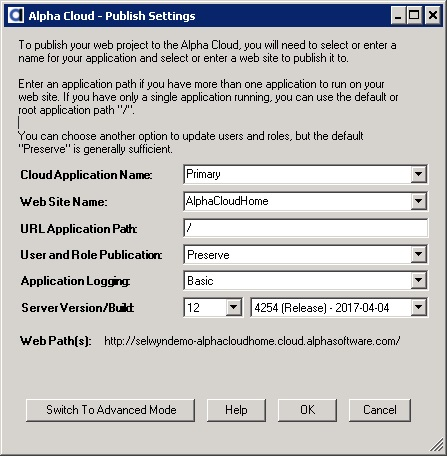
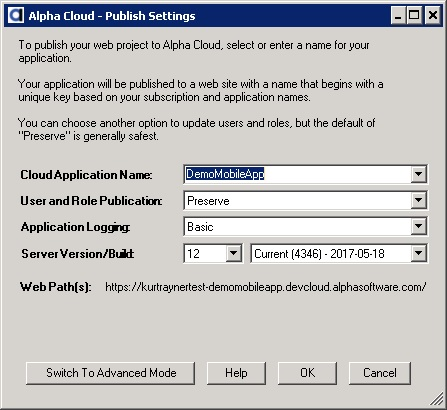
Update documentation re basic publish preferences dialog (remove web site and URL path). Add documentation for Alpha Cloud Status Update menu screen shots and dialog screen shots.

diff --git a/helpfiles/Guides/Beta Software/Alpha Cloud/Alpha Anywhere Developers Guide/Publishing Steps.html b/helpfiles/Guides/Beta Software/Alpha Cloud/Alpha Anywhere Developers Guide/Publishing Steps.html
@@ -48,25 +48,28 @@ The process of Alpha Cloud deployment for development and test is a little diffe
 <br/>
 <br/>
 
-<p>When using the basic publish dialog, you are asked to provide a unique names for your application, your web site, and an application path.</p>
+<p>When using the basic publish dialog, you are asked to provide a unique name for your application.</p>
 <ul>
 <li>	<p>The application name is how the Alpha Cloud will recognize your web project from others you publish.</p>
 	</li>
-<li>	<p>The web site name will uniquely identify your web site to Alpha Cloud so you can deploy one or more applications to it.</p>
+<li>	<p>The web site name will be the same as your application and will uniquely identify your web site to Alpha Cloud so you can deploy one or more applications to it.</p>
 	</li>
-<li>	<p>The URL application path will identify your web application within the web site you selected.
-		You can have many applications running on the same web site.</p>
-	<p>An example of a web path might be "/" (meaning it is the root application and does not have a name) or "/hr" (meaning we want to include the "/hr" part after the base URL to access this application.</p>
-	<p>The full URL in our example would be something like "http://www.mycompany.com" or "http://www.mycompany.com/hr"</p>
+<li>	<p>The URL application path will be set to the root application ("/").</p>
+	<p>Note that, you can have more than one application running on the same web site in addition to the root ("/") application.  
+	This is an discussed in the advanced section.
+</p>
 	</li>
 </ul>
 <br/>
 <p>The basic publish dialog always publishes a new version of your application and deploys it immediately.
-You would not generally publish directly from a development environment to production, but you could.
-As you get more familiar with the Alpha Cloud tools, you will see that you have tremendous flexibility and control over your production applications, including the ability to roll back deployments to a prior version.
+You will not generally publish directly from a development environment to production, but you can.
+As you get more familiar with the Alpha Cloud tools, you will see that you have tremendous flexibility and control over your production applications, 
+including the ability to roll back deployments to a prior version.
 </p>
 <p>With the information you have provided, Alpha Cloud can move your web project to the cloud, prepare it for deployment and deploy it on a web site.
-This web site may be available almost immediately (it certainly will if you are publishing an updated version to the same site).  
+How quickly your web site will be available depends on whether a new server group must be started.
+If not, you should see the web site within a minute or so.  
+The publish dialog will let you see the progress of your deployment.
 If you are using a tenancy option that limits your web sites to a dedicated virtual machine (an advanced option), you may have to wait for a machine to become available.
 There is usually no reason to run development or test loads in dedicated environments, and it is faster and more cost effective to use a "public" tenancy option.
 </p>

diff --git a/helpfiles/Guides/Beta Software/Alpha Cloud/Alpha Anywhere Developers Guide/Publishing Your Application.html b/helpfiles/Guides/Beta Software/Alpha Cloud/Alpha Anywhere Developers Guide/Publishing Your Application.html
@@ -70,19 +70,6 @@ The first publish requires some minimal setup using the following steps:</p>
 	<li><p>Select the application you want to publish your web project to, or enter a new name to create a new application.
 		The name must be unique within the subscription and account you are working in.</p>
 		</li>
-	<li><p>Select the web site you want to publish your application to, or enter a new name to create a new web site.
-		The name must be unique within the subscription you are working in.
-		Note that a web site is shared across all accounts within a subscription.</p>
-		</li>
-	<li><p>Assign a URL application path to access the application on your web site.</p>
-		<p>In most cases you will use "/" (meaning that this application is the "root" application for the web site.</p>
-		<p>If you use another name, your users will need to include that name in the URL they reference your application from.</p>
-		<p>For example, if your URL application path is "Accounting" and your web site root application is accessed as is accessed as "https//:myhost.mydomain.com", 
-			users will reference your application as "https://myhost.mydomain.com/Accounting".</p>
-		<p><strong>Note:</strong> The full path of your target web site is displayed on the dialog as you make changes.  
-			You can copy the path from the dialog to the clipboard to paste it into your browser for testing.
-			</p>
-		</li>
 	<li><p>Set the User and Role Publication Option.</p>
 		<p>The security information for your web project includes initial users and groups you want to publish as well as page permissions.
 			<ul>

diff --git a/helpfiles/Guides/Beta Software/Alpha Cloud/Alpha Anywhere Developers Guide/Alpha Cloud Status.html b/helpfiles/Guides/Beta Software/Alpha Cloud/Alpha Anywhere Developers Guide/Alpha Cloud Status.html
@@ -1,0 +1,39 @@
+<html>
+
+<head>
+<meta http-equiv="Content-Language" content="en-us">
+<meta http-equiv="Content-Type" content="text/html; charset=windows-1252">
+<meta name="description" content="Viewing the status of Alpha Cloud." />
+<meta name="shortlink" content="Alpha Cloud Alpha Anywhere Developers Guide Alpha Cloud Status" />
+<title>Alpha Cloud Alpha Anywhere Developers Guide Alpha Cloud Status</title>
+<link rel="stylesheet" type="text/css" href="AlphaCloud.css">
+</head>
+
+<body bgcolor="#ffffff">
+
+<h1>Alpha Cloud - Alpha Anywhere Developer's Guide</h1>
+
+<h2><a id="Alpha Cloud Status">Alpha Cloud Status Dialog</a></h2>
+<br/>
+
+<p>The Alpha Cloud Status dialog presents a list of regions available for Alpha Cloud.  
+If web sites are deployed in a region, then the egress IPs (the addresses from which the site may access the internet from a given region) are displayed with each region.
+</p>
+
+
+<p>To view the status of Alpha Cloud, click on the Alpha Cloud toolbar icon on the web control panel and select "Alpha Cloud Status".</p>
+<br/><br/>
+<img border="0" src="ScreenShots/WebControlPanelAlphaCloudMenuStatus.jpg">
+<br/>
+
+<p>The Alpha Cloud Status dialog will display.</p><br/>
+<img border="0" src="ScreenShots/AlphaCloudStatusDialog.jpg">
+<br/>
+<br/>
+<br/>
+<p><strong>Note: </strong>Click the button entitled "Copy To Clipboard" to copy a CSV (Comma Separated Variable) formatted list of regions to the clipboard.  
+This list will have the egress IPs for each region.<br/>
+</p>
+</body>
+
+</html>

diff --git a/helpfiles/Guides/Beta Software/Alpha Cloud/Alpha Anywhere Developers Guide/Concepts.html b/helpfiles/Guides/Beta Software/Alpha Cloud/Alpha Anywhere Developers Guide/Concepts.html
@@ -124,9 +124,12 @@ As a result, you can create schedules ahead of time (for example) to have a new 
 
 <ul>
 	<li><p><strong>The Basic Case</strong></p>
-	<p>If you as a cloud user only have permission to access a single subscription and account, you can simple specify the name of the application in your publish profile and the  name of a web site and the application and web site will be created if they are new, or selected if you have specified them before.
+	<p>If you as a cloud user only have permission to access a single subscription and account, you can simple specify the name of the application in your publish profile.
+		The default application name will be the name of your workspace.  
+		If you have created more than one web project and the current web project is not called "Default", the application name will be the workspace followed by the web project name.
+		The application and web site will be created with that name if they are new, or selected if you have specified them before.
 	</p>
-	<p>The existing applications and web sites are listed in the basic publish settings dialog so you can choose them from the list.
+	<p>The existing applications are listed in the basic publish settings dialog so you can choose them from the list.
 	</p>
 	</li>
 
